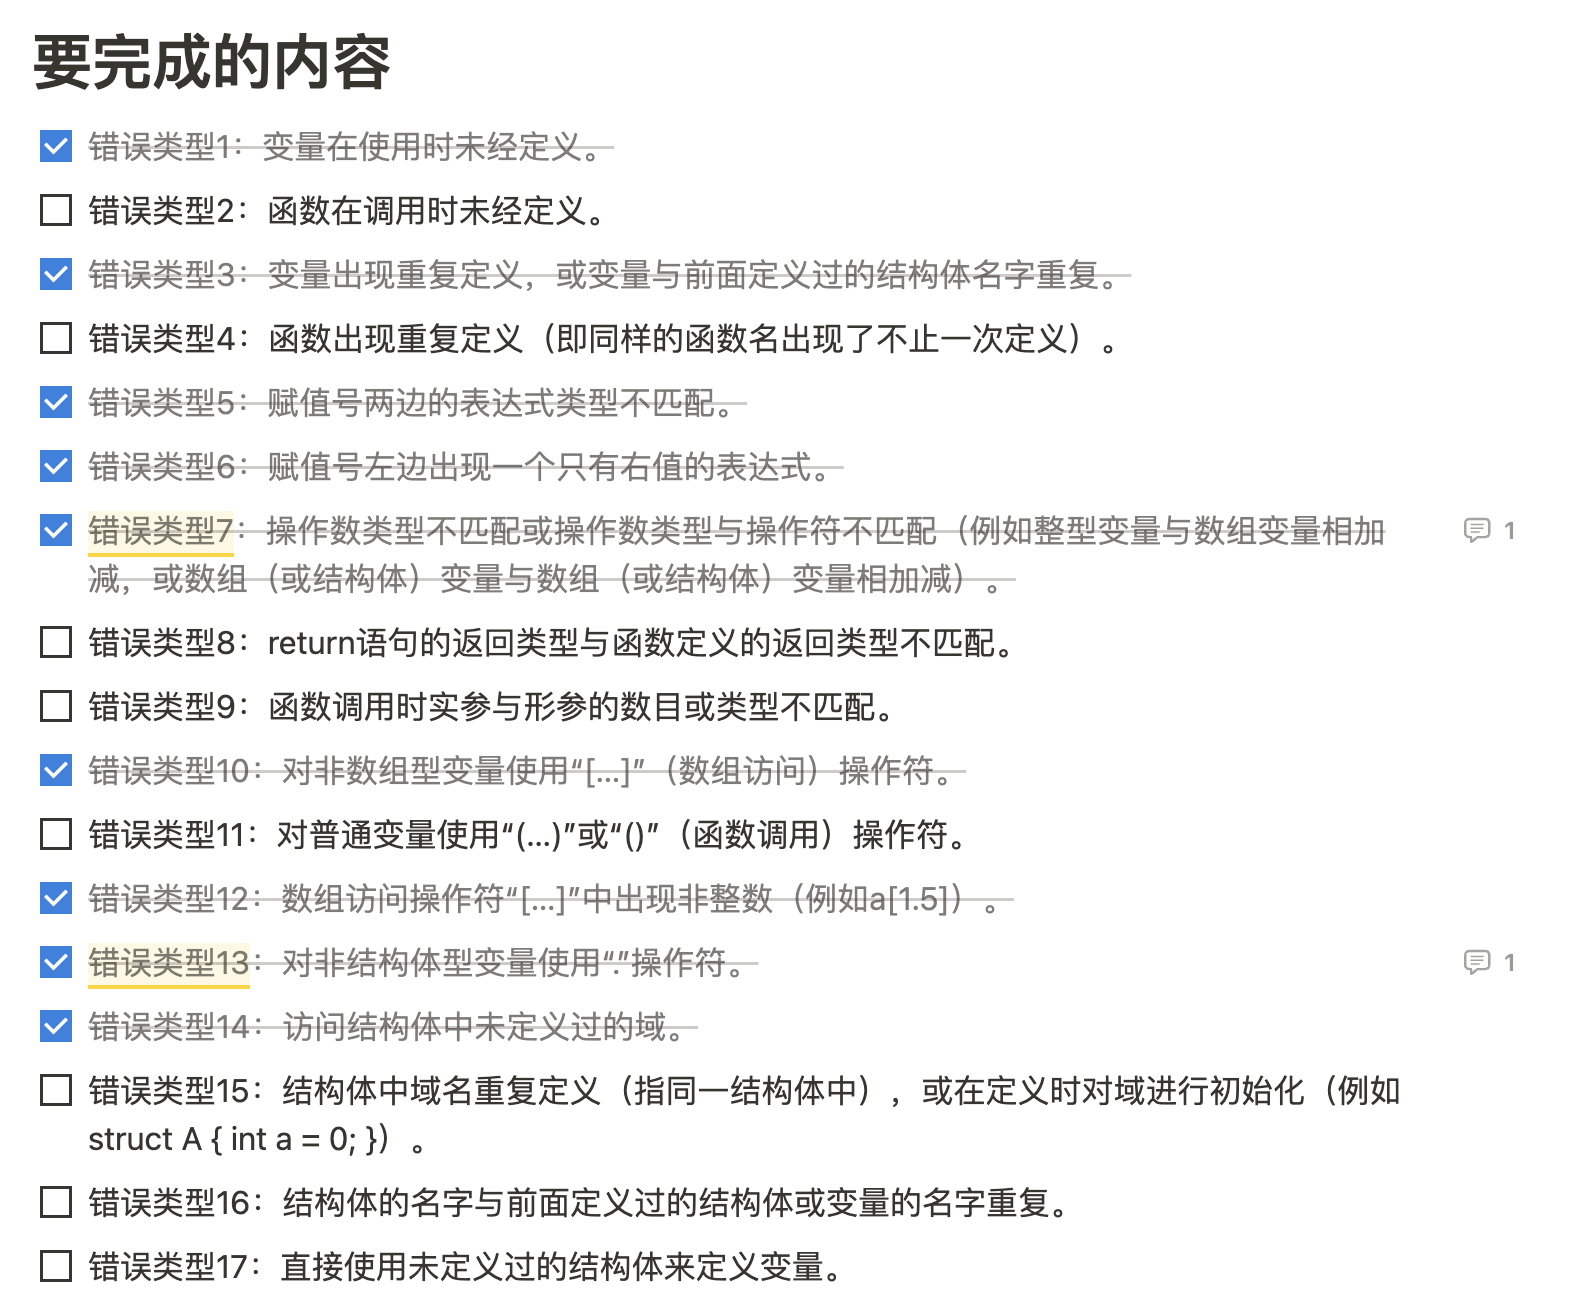
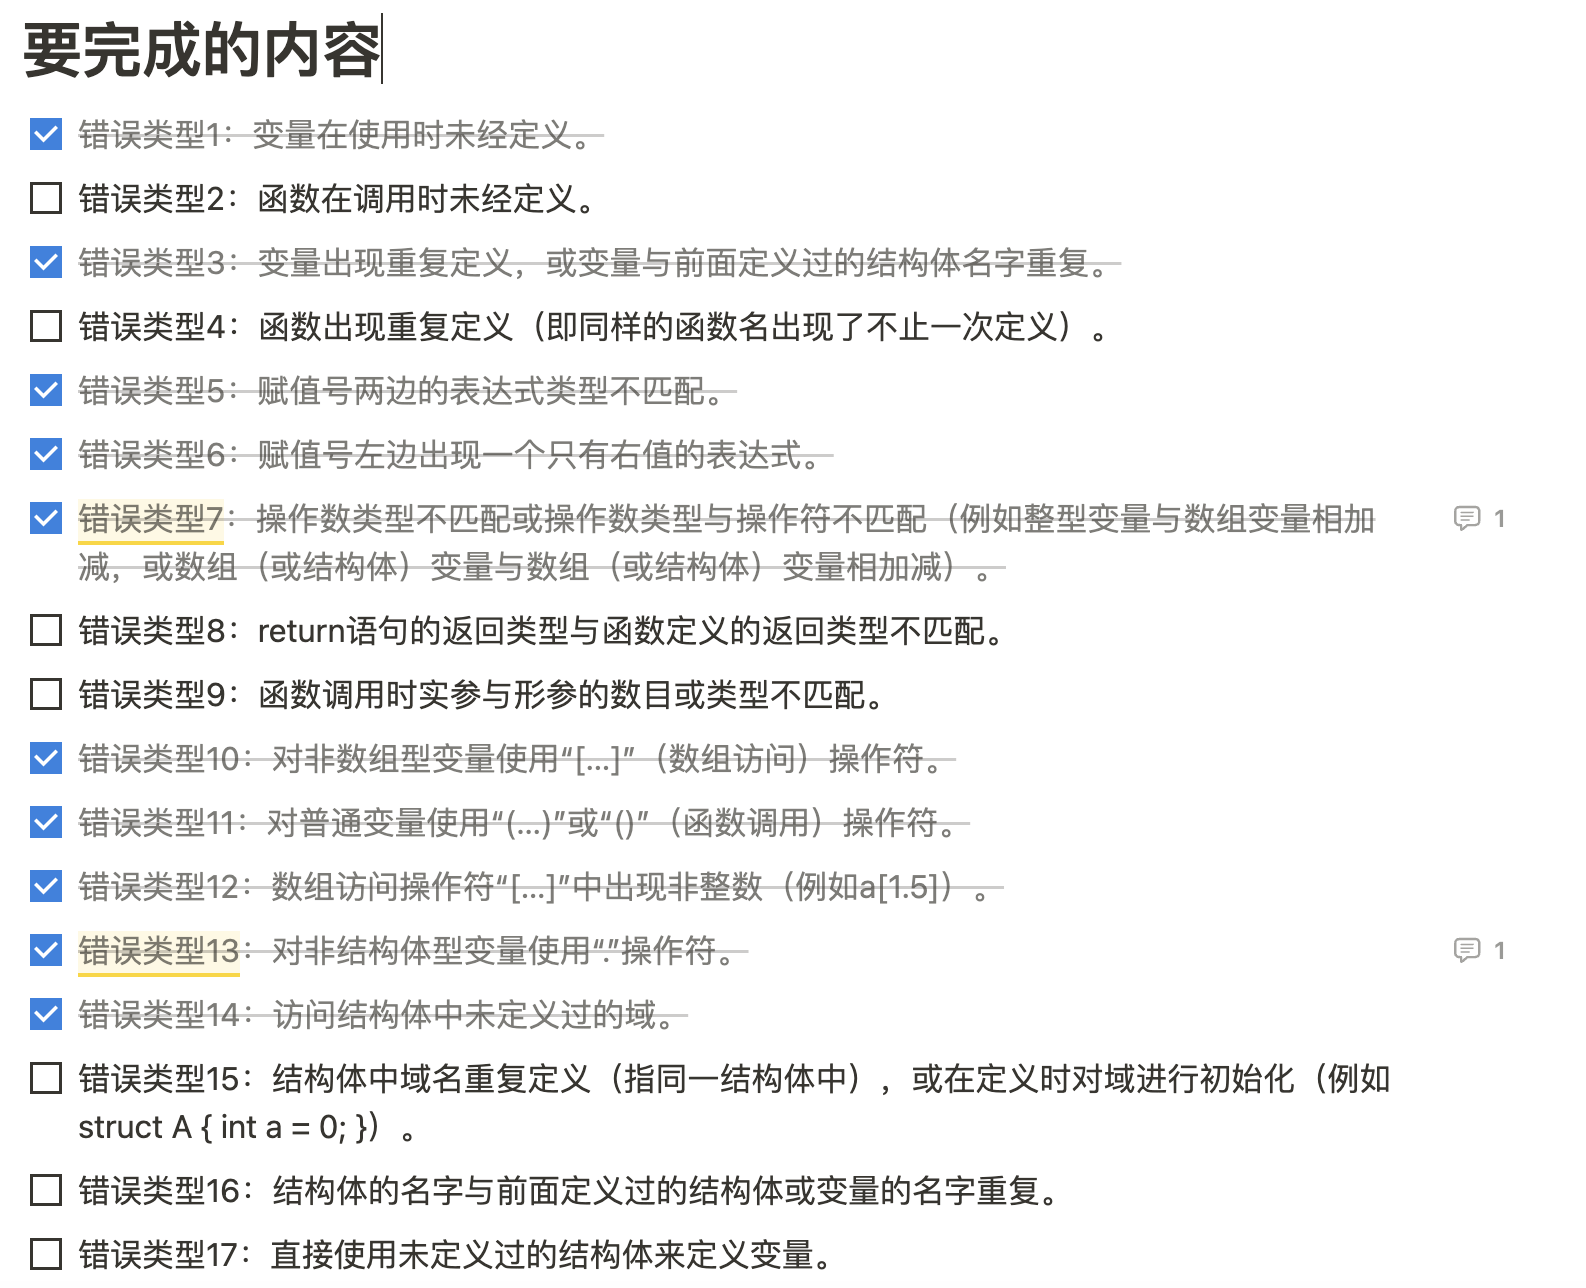
增加了判断是否为函数变量的功能

Changed region(s): [[0.0, 0.0, 0.8994, 0.9938], [0.8994, 0.7143, 0.9614, 0.7453], [0.9304, 0.3727, 0.9614, 0.4037]]

diff --git a/lab_2/semantic.c b/lab_2/semantic.c
@@ -216,16 +216,27 @@ static type _Exp(Node root){
     } else if (!strcmp(root->child[0]->name, "FLOAT")){
         return _createType(BASIC, 1, FLOAT);
     } else if (!strcmp(root->child[0]->name, "ID")){
-        // 对 ID 的分析
-        // 这里注意的是，变量表中的 node 和树中的 node 是不一样的类型
-        // 所以要转换一下
-        symbol_node s = _createSymbolNode();
-        s->name = root->child[0]->ID_NAME;
-        if (!_findRecord(head, s)){
-            fault = 1;
-            printf("Error type 1 at Line %d: Undefined variable \"%s\".\n", root->child[0]->line, root->child[0]->ID_NAME);
+        if (root->num_child == 1){
+            // 对 ID 的分析
+            // 这里注意的是，变量表中的 node 和树中的 node 是不一样的类型
+            // 所以要转换一下
+            symbol_node s = _createSymbolNode();
+            s->name = root->child[0]->ID_NAME;
+            if (!_findRecord(head, s)){
+                fault = 1;
+                printf("Error type 1 at Line %d: Undefined variable \"%s\".\n", root->child[0]->line, root->child[0]->ID_NAME);
+            } else {
+                return _findRecord(head, s)->symbolType;
+            }
         } else {
-            return _findRecord(head, s)->symbolType;
+            // 大于一个儿子，判断是函数调用
+            symbol_node s = _createSymbolNode();
+            s->name = root->child[0]->ID_NAME;
+            // 当调用的变量不是函数类型的时候，报错
+            if (_findRecord(head, s)->symbolType->kind != FUNCTION){
+                fault = 1;
+                printf("Error type 11 at Line %d: symbol \"%s\" is not a function and thus cannot be called as one.\n", root->child[0]->line, root->child[0]->ID_NAME);
+            }
         }
     } else if (!strcmp(root->child[0]->name, "Exp")){
         // 对数组元素展开分析

diff --git a/lab_2/semantic.h b/lab_2/semantic.h
@@ -5,7 +5,7 @@
 
 void semantic(Node root);
 typedef struct _SymbolNode *symbol_node;
-typedef enum {BASIC, ARRAY, STRUCTURE} Kind;  // 三种类型数据
+typedef enum {BASIC, ARRAY, STRUCTURE, FUNCTION} Kind;  // 三种类型数据
 typedef enum {INT, FLOAT} basic_type;  // 基本类型
 typedef struct _Type *type;  // 类型指针
 
